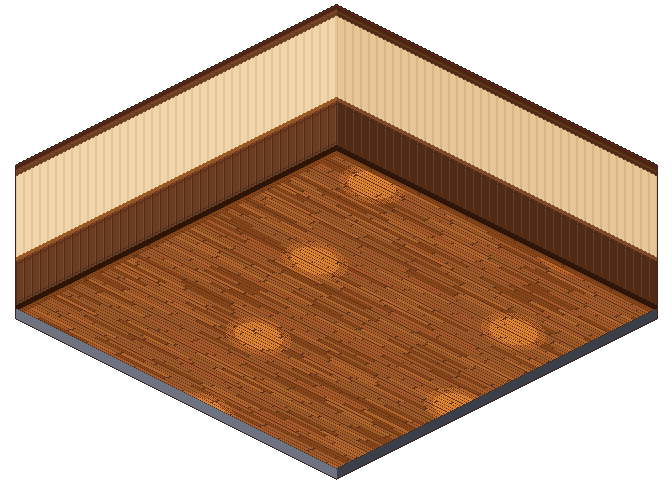
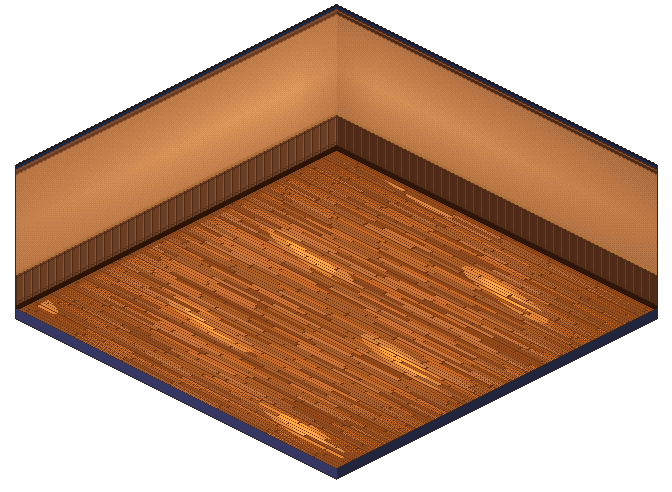
Room in the original café's palette; simpler doorway; back bar, espresso, piano, record cabinet
Walls are the original's lamp-lit orange-tan with dithered falloff, golden floor with glossy
plank streaks, navy trim and base. The cut kitchen doorway was too busy, so it's redrawn as
a plain frame with warm light inside.

diff --git a/art/draw_room.py b/art/draw_room.py
@@ -22,11 +22,15 @@ from draw_iso import P as BASE_P
 # Colors sampled from the original café: orange-brown planks with dark seams and bright
 # reflections, warm cream walls over dark wood paneling.
 P = {**BASE_P, **{k: tuple(int(v[i : i + 2], 16) for i in (1, 3, 5)) + (255,) for k, v in {
-    "wall0": "#d9b585", "wall1": "#e6c697", "wall2": "#f0d6aa",
-    "glow": "#e0a865", "deep0": "#2e1508", "deep1": "#4a2410",
-    "plank0": "#884517", "plank1": "#9e5a26", "plank2": "#a65927", "plank3": "#b1652b",
-    "seam": "#5a311c", "shine0": "#d0732a", "shine1": "#e78e31",
-    "panel0": "#4f2a16", "panel1": "#6b3d22", "panel2": "#7c4a29", "rail": "#9e5a26",
+    # walls: the original's lamp-lit orange-tan plaster (sampled from the high-res original)
+    "wall0": "#a4693f", "wall1": "#b97644", "wall2": "#c4814d", "wall3": "#d38c54", "wall4": "#e09a5c",
+    "glow": "#eba868", "deep0": "#2e1508", "deep1": "#4a2410",
+    # floor: golden honey planks with bright glossy reflections
+    "plank0": "#934b1c", "plank1": "#ac5f27", "plank2": "#c76b28", "plank3": "#cd7536",
+    "seam": "#6a3415", "shine0": "#e08738", "shine1": "#ffa640",
+    "panel0": "#4f2a16", "panel1": "#6b3d22", "panel2": "#8a5530", "rail": "#b0703a",
+    # navy trim and base, like the original's outer walls
+    "navy0": "#0a192f", "navy1": "#22253e", "navy2": "#363763",
 }.items()}}
 
 ART = os.path.dirname(os.path.abspath(__file__))
@@ -50,26 +54,40 @@ def floor_uv(x, y):
     return (a + b) / 2, (b - a) / 2
 
 
-def wall_color(z, along, lit):
+BAYER = [[0, 8, 2, 10], [12, 4, 14, 6], [3, 11, 1, 9], [15, 7, 13, 5]]
+
+
+def dither(level, x, y, ramp):
+    """Pick from a dark->light ramp at a fractional level, with ordered dithering between steps."""
+    level = max(0.0, min(len(ramp) - 1.0, level))
+    i = int(level)
+    if i < len(ramp) - 1 and (level - i) * 16 > BAYER[y % 4][x % 4]:
+        i += 1
+    return ramp[i]
+
+
+def wall_color(z, along, lit, x, y):
     if z >= WALL:
-        return "seam" if z >= WALL + CAP - 1 else "deep1"  # the cut top of the wall
-    if z >= WALL - 7:  # crown molding
-        return ("panel2" if lit else "panel1") if z in (WALL - 7, WALL - 3) else ("panel1" if lit else "panel0")
+        return "navy0" if z >= WALL + CAP - 1 else "navy1"  # the cut top of the wall
+    if z >= WALL - 6:  # crown molding
+        return "panel2" if z in (WALL - 6, WALL - 2) else ("panel1" if lit else "panel0")
     if z < 4:
         return "deep0"  # baseboard
-    if z < 48:  # dark wood paneling, framed panels every half tile
+    if z < 34:  # low wood wainscot, framed panels every half tile
         k = (along * 2) % 1
-        if k < 0.08 or z in (6, 44):
+        if k < 0.08 or z in (6, 31):
             return "panel0"
         if k < 0.14:
-            return "panel2" if lit else "panel1"  # lit panel edge
+            return "panel2" if lit else "panel1"
         return "panel1" if lit else "panel0"
-    if z < 52:
-        return "rail" if lit else "panel2"  # chair rail
-    # warm cream wall with soft stripes
-    if (along * 2) % 1 < 0.16:
-        return "wall1" if lit else "wall0"
-    return "wall2" if lit else "wall1"
+    if z < 37:
+        return "rail"  # chair rail
+    # warm plaster: brightest at mid-height, falling off toward the ceiling, corner and far ends
+    mid = 1 - abs((z - 80) / 70)
+    ends = 1 - (along / N) ** 2 * 0.6
+    corner = min(1.0, along / 2.5)
+    level = (0.6 + 3.2 * mid * ends * (0.55 + 0.45 * corner)) - (0 if lit else 0.7)
+    return dither(level, x, y, ["wall0", "wall1", "wall2", "wall3", "wall4"])
 
 
 def main():
@@ -83,7 +101,7 @@ def main():
         along = (OX - x) / HW if lit else (x - OX) / HW
         floor_y = round(OY + along * HH)
         for z in range(WALL + CAP):
-            put(x, floor_y - z, wall_color(z, along, lit))
+            put(x, floor_y - z, wall_color(z, along, lit, x, floor_y - z))
 
     # ---- floor: narrow orange-brown planks like the original, dark seams, glossy light streaks
     PLANKS = 5
@@ -104,12 +122,15 @@ def main():
             elif ((u + off) / seg_len) % 1 < 0.025:
                 c = "seam"
             else:
-                # glossy floor: soft bands of reflected light running across the planks
-                g = math.sin(u * 0.55 - v * 0.25) + 0.6 * math.sin(v * 0.9 + u * 0.15)
-                if g > 1.35:
-                    c = "shine1" if (x + y) % 2 == 0 else "shine0"
-                elif g > 1.15 and (x + y) % 2 == 0:
-                    c = "shine0"
+                # glossy floor: long streaks of reflected lamplight along the planks
+                g = math.sin(u * 0.35 - v * 0.9) + 0.5 * math.sin(v * 1.7 + 1.3)
+                lit_plank = plank_tone.setdefault(("lit", p, seg), rng.random())
+                if g > 1.15 and lit_plank < 0.7:
+                    c = "shine1" if g > 1.38 else "shine0"
+            # lamp-lit middle, dimmer toward the walls and the front edges
+            d = ((u - N * 0.5) ** 2 + (v - N * 0.5) ** 2) ** 0.5 / (N * 0.7)
+            if c in ("plank1", "plank2", "plank3") and d > 0.55 and BAYER[y % 4][x % 4] < (d - 0.55) * 40:
+                c = "plank0"
             if u < 0.15 or v < 0.15:
                 c = "deep0"
             elif (u < 0.45 or v < 0.45) and c not in ("seam",):
@@ -120,10 +141,10 @@ def main():
     for x in range(OX - N * HW, OX + N * HW + 1):
         if x <= OX:
             edge = OY + N * HH + (x - (OX - N * HW)) / 2
-            c = "steel1"
+            c = "navy2"
         else:
             edge = OY + 2 * N * HH - (x - OX) / 2
-            c = "steel0"
+            c = "navy1"
         for k in range(1, SLAB + 1):
             put(x, math.floor(edge) + k, c)
 

diff --git a/art/draw_door.py b/art/draw_door.py
@@ -1,0 +1,62 @@
+"""A simple kitchen doorway in the room's palette: wood frame, warm light inside.
+
+Drawn for the back-left wall (its top and bottom edges rise to the right, 1px per 2px);
+flip it in the editor for the back-right wall.
+
+    python3 art/draw_door.py   # writes public/cafe/sprites/kitchen-doorway.png
+"""
+import os
+
+from PIL import Image
+
+from draw_room import P, BAYER
+
+ART = os.path.dirname(os.path.abspath(__file__))
+OUT = os.path.join(os.path.dirname(ART), "public", "cafe", "sprites")
+
+W, H = 26, 50  # outer width and height of the frame (px)
+F = 3  # frame thickness
+
+
+def main():
+    im = Image.new("RGBA", (W + 2, H + W // 2 + 2), (0, 0, 0, 0))
+    glow = ["glow", "wall4", "shine1"]  # inside the doorway: warm, brightest near the floor
+    for x in range(W):
+        bottom = H + W // 2 - x // 2  # floor line on the wall at this column
+        for z in range(H):
+            y = bottom - z
+            inside = F <= x < W - F and z < H - F
+            if not inside:
+                # frame: lit left edge, darker right, a lintel on top
+                if z >= H - F:
+                    c = "panel2" if z == H - 1 else "panel1"
+                elif x < F:
+                    c = "rail" if x == 0 else "panel2"
+                else:
+                    c = "panel1" if x == W - 1 else "panel0"
+            else:
+                level = 2.2 * (1 - z / (H - F)) ** 0.7
+                c = glow[0]
+                i = int(level)
+                if i < 2 and (level - i) * 16 > BAYER[y % 4][x % 4]:
+                    i += 1
+                c = glow[min(i, 2)]
+                if x == F or z == H - F - 1:
+                    c = "deep1"  # shadow just inside the frame
+                elif z in (30, 31) and F + 2 <= x < W - F - 4:
+                    c = "panel1" if z == 30 else "deep1"  # one kitchen shelf, nothing more
+            im.putpixel((x + 1, y + 1), P[c])
+    # 1px dark edge
+    src = im.copy()
+    a = src.getchannel("A").load()
+    for y in range(im.height):
+        for x in range(im.width):
+            if not a[x, y] and any(0 <= x + dx < im.width and 0 <= y + dy < im.height and a[x + dx, y + dy] for dx, dy in ((1, 0), (-1, 0), (0, 1), (0, -1))):
+                im.putpixel((x, y), (36, 20, 13, 255))
+    im = im.crop(im.getbbox())
+    im.save(os.path.join(OUT, "kitchen-doorway.png"))
+    print("kitchen-doorway", im.size)
+
+
+if __name__ == "__main__":
+    main()

diff --git a/art/cut_reference.py b/art/cut_reference.py
@@ -35,14 +35,27 @@ def floor(px):
     return (r > 140) & ((r - b) > 70) & (g > 70) & (g < r) & ((r + g + b) > 300)
 
 
+def rug(px):
+    """The deep red patterned rug under the piano corner."""
+    r, g, b = px[..., 0].astype(int), px[..., 1].astype(int), px[..., 2].astype(int)
+    return (r > 90) & (g < 75) & (b < 75) & ((r - g) > 45)
+
+
+def around_floor_piece(px):
+    return floor(px) | wall(px) | rug(px)
+
+
 # name: (outline in high-res pixels, what to remove inside it)
 PIECES = {
     "chalkboard-menu": ([(956, 120), (1016, 120), (1016, 238), (956, 238)], wall),
     "sax-poster": ([(1302, 214), (1418, 214), (1418, 350), (1302, 350)], wall),
     "record-art": ([(1428, 345), (1490, 345), (1490, 430), (1428, 430)], wall),
     "framed-picture-tall": ([(712, 78), (768, 78), (768, 164), (712, 164)], wall),
-    "kitchen-doorway": ([(1012, 116), (1150, 116), (1150, 340), (1012, 340)], wall),
     "wall-lamp": ([(1166, 250), (1198, 250), (1198, 300), (1166, 300)], wall),
+    "back-bar-shelves": ([(766, 34), (962, 112), (962, 196), (766, 150)], wall),
+    "espresso-station": ([(776, 178), (902, 214), (902, 268), (776, 236)], wall),
+    "piano": ([(1172, 330), (1300, 318), (1336, 372), (1350, 380), (1350, 476), (1172, 476)], around_floor_piece),
+    "record-cabinet": ([(1352, 436), (1490, 436), (1490, 566), (1352, 566)], around_floor_piece),
 }
 
 
